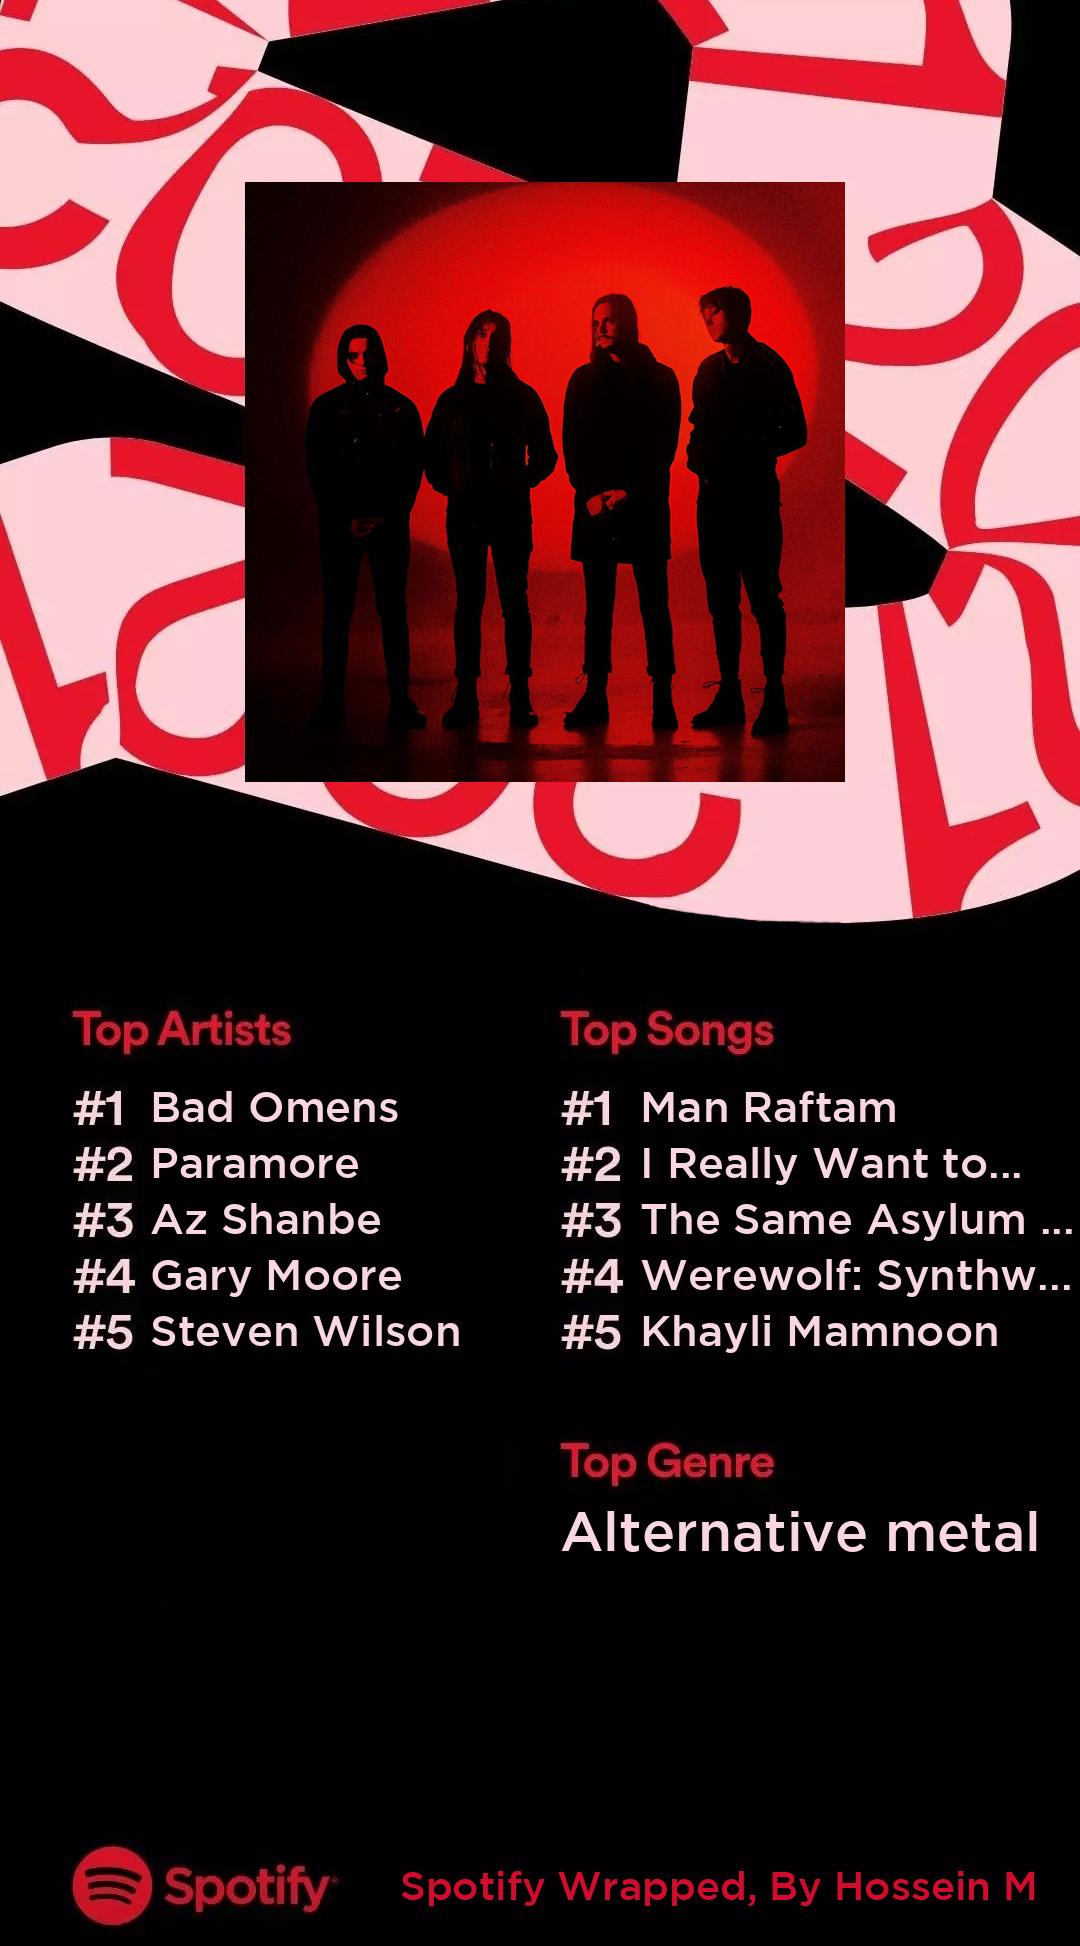
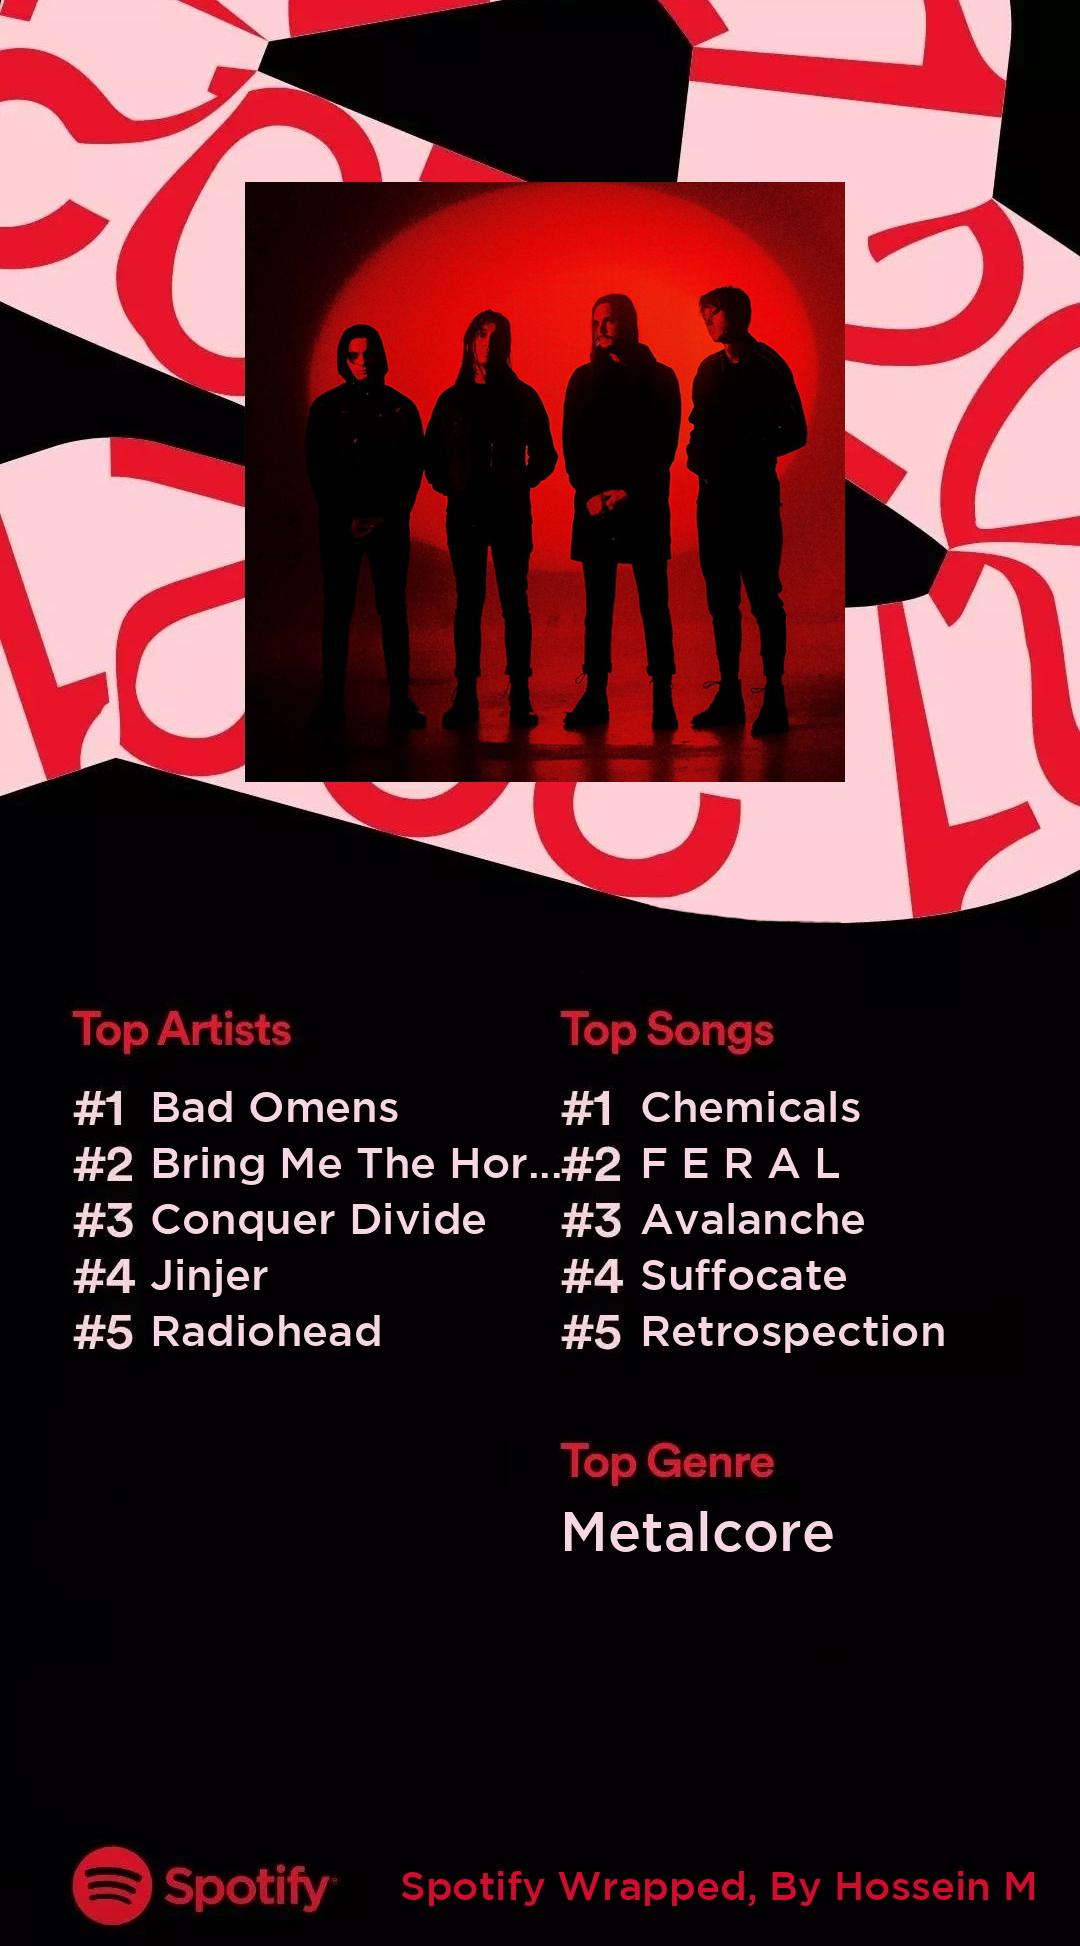
Adding playlist analyser to the project

Changed region(s): [[0.5806, 0.555, 0.9778, 0.7091], [0.1222, 0.5858, 0.4889, 0.7091], [0.5194, 0.7708, 0.9778, 0.8016]]

diff --git a/playlist_analyse.py b/playlist_analyse.py
@@ -1,0 +1,77 @@
+import spotipy
+import pandas as pd
+from sklearn.preprocessing import MinMaxScaler
+from spotipy.oauth2 import SpotifyClientCredentials
+from keys import client_id, client_secret, redirect_uri
+
+
+def spotifyID(link):
+    link = link.replace("https://open.spotify.com/playlist/", "spotify:playlist:")
+    return link[:-20]
+
+
+def playlist_analyse(link):
+    client_credentials_manager = SpotifyClientCredentials(client_id, client_secret)
+    sp = spotipy.Spotify(client_credentials_manager=client_credentials_manager)
+    results = sp.playlist(spotifyID(link))
+    playlist = results['name']
+    owner = results['owner']['display_name']
+
+    ids = []
+
+    for item in results['tracks']['items']:
+        track = item['track']['id']
+        ids.append(track)
+
+    song_meta = {'id': [], 'album': [], 'name': [],
+                 'artist': [], 'explicit': [], 'popularity': []}
+
+    for song_id in ids:
+        # get song's meta data
+        meta = sp.track(song_id)
+
+        # song id
+        song_meta['id'].append(song_id)
+
+        # album name
+        album = meta['album']['name']
+        song_meta['album'] += [album]
+
+        # song name
+        song = meta['name']
+        song_meta['name'] += [song]
+
+        # artists name
+        s = ', '
+        artist = s.join([singer_name['name'] for singer_name in meta['artists']])
+        song_meta['artist'] += [artist]
+
+        # explicit: lyrics could be considered offensive or unsuitable for children
+        explicit = meta['explicit']
+        song_meta['explicit'].append(explicit)
+
+        # song popularity
+        popularity = meta['popularity']
+        song_meta['popularity'].append(popularity)
+
+    song_meta_df = pd.DataFrame.from_dict(song_meta)
+
+    # check the song feature
+    features = sp.audio_features(song_meta['id'])
+    # change dictionary to dataframe
+    features_df = pd.DataFrame.from_dict(features)
+
+    # convert milliseconds to mins
+    # duration_ms: The duration of the track in milliseconds.
+    # 1 minute = 60 seconds = 60 × 1000 milliseconds = 60,000 ms
+    features_df['duration_ms'] = features_df['duration_ms'] / 60000
+
+    # combine two dataframe
+    final_df = song_meta_df.merge(features_df)
+
+    music_feature = features_df[
+        ['danceability', 'energy', 'loudness', 'speechiness', 'acousticness', 'instrumentalness', 'liveness', 'valence',
+         'tempo', 'duration_ms']]
+
+    min_max_scaler = MinMaxScaler()
+    music_feature.loc[:] = min_max_scaler.fit_transform(music_feature.loc[:])

diff --git a/get_info.py b/get_info.py
@@ -58,7 +58,7 @@ def wrapped(username):
 
     if token:
         sp = spotipy.Spotify(auth=token)
-        top_tracks_short = sp.current_user_top_tracks(limit=100, offset=0, time_range="medium_term")
+        top_tracks_short = sp.current_user_top_tracks(limit=100, offset=0, time_range="long_term")
     else:
         print("Can't get token for", username)
 
